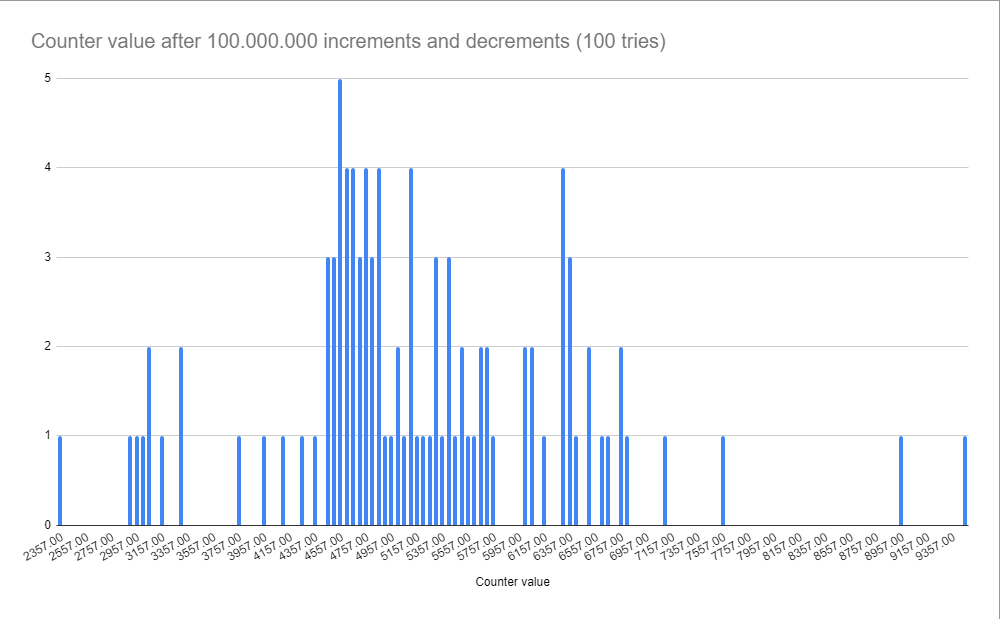
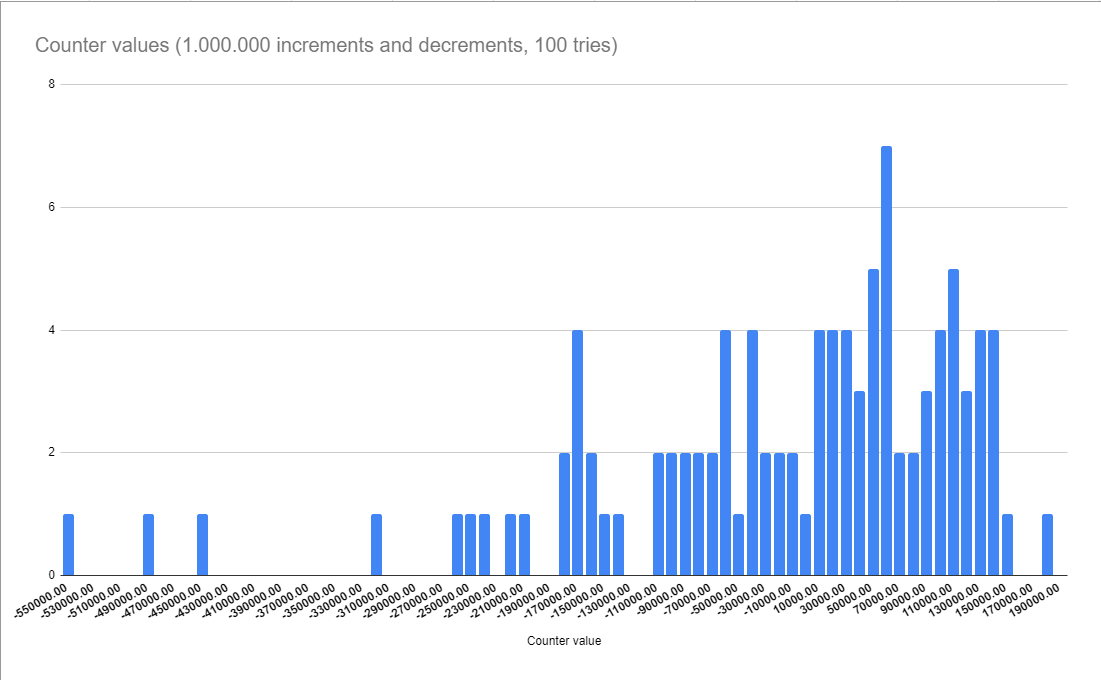
lab1 part 2

Changed region(s): [[0.0, 0.0, 1.0, 1.0], [0.062, 0.1228, 0.961, 0.1535], [0.031, 0.706, 0.062, 0.7367]]

diff --git a/lab-1/Race.java b/lab-1/Race.java
@@ -1,5 +1,7 @@
+import java.util.concurrent.atomic.AtomicBoolean;
+
 public class Race {
-    public static void main(String[] args) {
+    public static void main(String[] args) throws Exception {
         Counter counter = new Counter(0);
 
         var iThread = new IThread(counter);
@@ -7,6 +9,9 @@ public class Race {
 
         var dThread = new DThread(counter);
         dThread.start();
+
+        iThread.join();
+        dThread.join();
 
         System.out.println(counter.value());
     }
@@ -21,7 +26,7 @@ class IThread extends Thread {
     }
 
     public void run() {
-        for (int i = 0; i < 100_000_000; i++) {
+        for (int i = 0; i < 1_000_000; i++) {
             _counter.inc();
         }
     }
@@ -36,7 +41,7 @@ class DThread extends Thread {
     }
 
     public void run() {
-        for (int i = 0; i < 100_000_000; i++) {
+        for (int i = 0; i < 1_000_000; i++) {
             _counter.dec();
         }
 
@@ -45,20 +50,38 @@ class DThread extends Thread {
 
 class Counter {
     private int _val;
+    private Lock _lock = new Lock();
 
     public Counter(int n) {
         _val = n;
     }
 
     public void inc() {
+        //_lock.lock();
         _val++;
+        //_lock.unlock();
     }
 
     public void dec() {
+        //_lock.lock();
         _val--;
+        //_lock.unlock();
     }
 
     public int value() {
         return _val;
+    }
+}
+
+class Lock {
+    private AtomicBoolean isLocked = new AtomicBoolean(false);
+
+    public void lock() {
+        while (!isLocked.weakCompareAndSetAcquire(false, true))
+            Thread.yield();
+    }
+
+    public void unlock() {
+        isLocked.set(false);
     }
 }

diff --git a/lab-1/readme.md b/lab-1/readme.md
@@ -1,6 +1,6 @@
 # Specs
 
-Increase and decrease a variable on different threads 100.000.000 times. Record its final value.
+Increase and decrease a variable on different threads 1.000.000 times. Record its final value.
 
 # Code
 
@@ -30,7 +30,7 @@ class IThread extends Thread {
     }
 
     public void run() {
-        for (int i = 0; i < 100_000_000; i++) {
+        for (int i = 0; i < 1_000_000; i++) {
             _counter.inc();
         }
     }
@@ -45,7 +45,7 @@ class DThread extends Thread {
     }
 
     public void run() {
-        for (int i = 0; i < 100_000_000; i++) {
+        for (int i = 0; i < 1_000_000; i++) {
             _counter.dec();
         }
 
@@ -77,11 +77,9 @@ class Counter {
 
 100 runs have been recorded.
 
-The following graphs illustrate the final value of the counter. On most runs, the value ends up somewhere around the ~5000 region. The average is `5189.97`.
+The following graphs illustrate the final value of the counter. On most runs, the value ends up somewhere around the ~5000 region. The average is `-12920.24`.
 
 ![](./histogram.png)
-
-![](./points.png)
 
 The final value is non-deterministic, as the code is not thread-safe. Two threads access read and modify the same variable at once without any synchronization.
 
@@ -91,3 +89,26 @@ For example, the following behavior may happen:
 2. Thread `D` (Decrementing) reads the counter's value, which is `0`, as thread `I` has not written the decremented value to the shared memory yet.
 3. Thread `D` writes `-1` to the counter's value.
 4. Thread `I` writes `1` to the counter's value.
+
+# Locking
+
+To solve the problem above, a simple lock based on an `AtomicBoolean` is written:
+
+```java
+class Lock {
+    private AtomicBoolean isLocked = new AtomicBoolean(false);
+
+    public void lock() {
+        while (!isLocked.weakCompareAndSetAcquire(false, true))
+            Thread.yield();
+    }
+
+    public void unlock() {
+        isLocked.set(false);
+    }
+}
+```
+
+Initially, the code used `compareAndSet` instead of `weakCompareAndSetAcquire`. However, `compareAndSet` did not work entirely, even though it did bring the final value of the counter closer to zero.
+
+It is yet to be investigated why `weakCompareAndSetAcquire` works, while `compareAndSet` doesn't.
